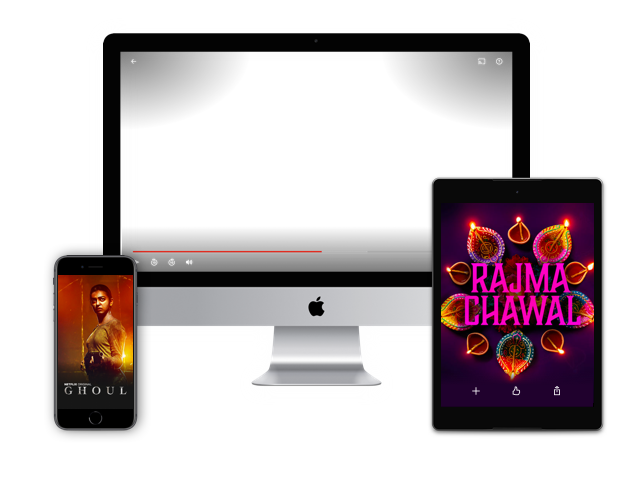
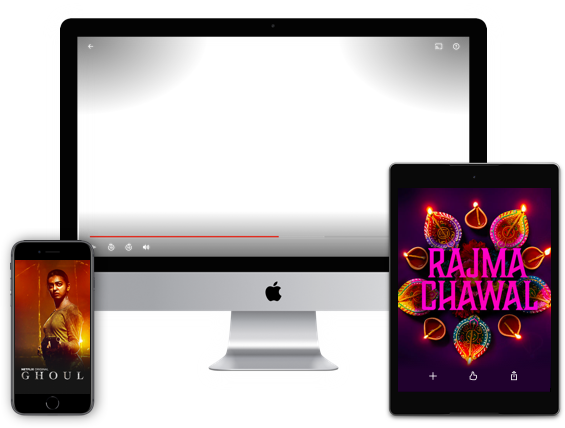
video section

diff --git a/index.html b/index.html
@@ -10,16 +10,16 @@
 <body>
     <div class="container bg">
         <div class="head">
-            <div class="col" style="flex:1;">
+            <div class="column" style="flex:1;">
                 <img src=".//images/logo.png" class="logo" alt="logo" title="logo">
             </div>
-            <div class="col">
+            <div class="co">
                 <select class="language" style="margin: auto;">
                     <option style="color:black;">English</option>
                     <option style="color:black;">Hindi</option>
                 </select>
             </div>
-            <div class="col">
+            <div class="co">
                 <div class="button">
                     Sign In
                 </div>
@@ -51,10 +51,11 @@
                 <p3>Watch on smart TVs, PlayStation, Xbox, Chromecast, Apple TV, Blu-ray players and more.</p3>
             </div>
 
-            <div class="column c1">
-                <video class="video" autoplay loop muted>
+            <div class="column col" style="z-index: 1;">
+                <video class="video1" autoplay loop muted>
                     <source src="./images/video02.mp4">
                 </video>
+                <img src="./images/img07.png" class="img2">
             </div>
         </div>
     </div>
@@ -72,10 +73,11 @@
                 <p3>Stream unlimited movies and TV shows on your phone, tablet, laptop, and TV.</p3>
             </div>
 
-            <div class="column c2">
-                <video class="video2" autoplay loop muted>
+            <div class="column col" style="z-index: 1;">
+                <video class="video" autoplay loop muted>
                     <source src="./images/video01.mp4">
                 </video>
+                <img src="./images/img04.png">
             </div>
         </div>
     </div>

diff --git a/code/style.css b/code/style.css
@@ -124,6 +124,7 @@ p, .button {
     border:1px solid white;
     border-radius: 5px;
     width: 300px;
+    color:white;
     padding: 12px;
 }
 
@@ -147,33 +148,22 @@ p, .button {
     background-color: #c00;
 }
 
-
-.c1 {
-    background-image:url(../images/img07.png);
-    background-repeat: no-repeat;
-    background-position: center;
-    background-size: contain;
-    height:300px;
+.col {
+    height: 350px;
     display: flex;
     justify-content: center;
 }
 
-.c2 {
-    background-image:url(../images/img04.png);
-    background-repeat: no-repeat;
-    background-position: center;
-    background-size: contain;
-    height:300px;
-    display: flex;
-    justify-content: center;
-}
-
-.video {
-    margin-top: -10px;
-    width: 280px;
-}
-
-.video2 {
-    width: 250px;
+.col .video {
+    width: 330px;
     position: absolute;
+    margin-top: 20px;
+    z-index:-1;
+}
+
+.col .video1 {
+    width: 330px;
+    position: absolute;
+    margin-top: 75px;
+    z-index:-1;
 }
